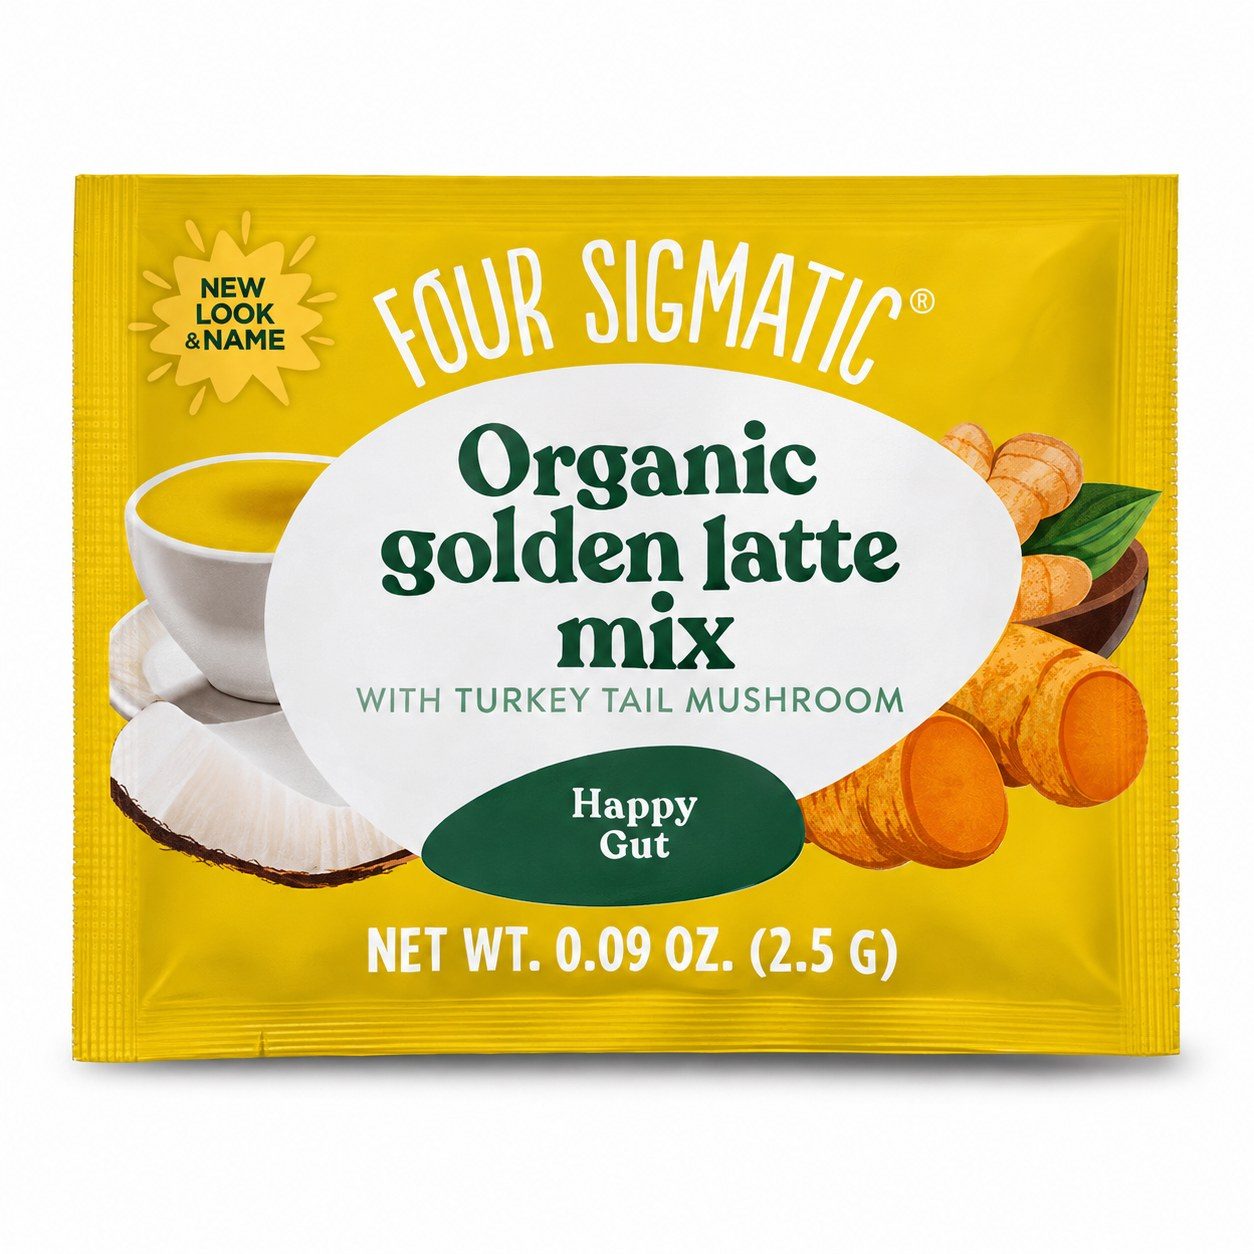
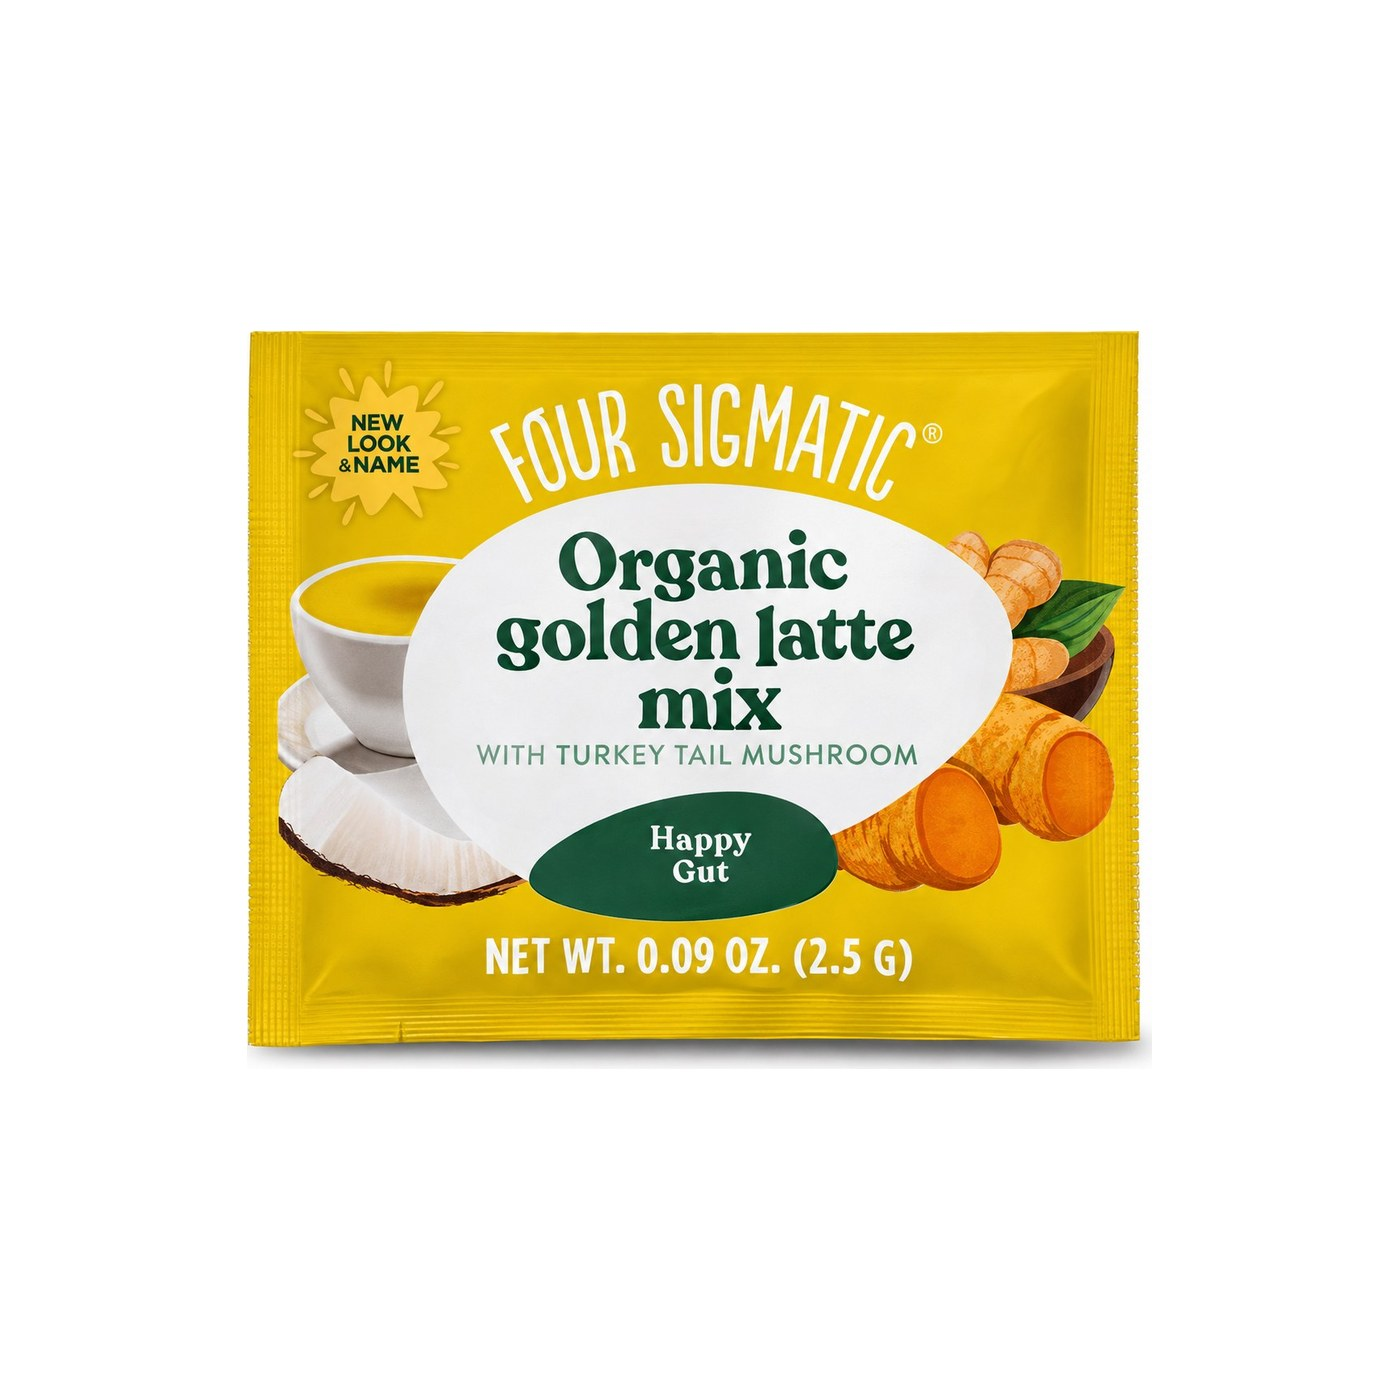
Temporary: descriptions, photo resize
Claude-Session: https://claude.ai/code/session_01FvBwL9nj8VocANxAMeTxse

diff --git a/_transfer/step41_descriptions.js b/_transfer/step41_descriptions.js
@@ -1,0 +1,52 @@
+// Step 4.1 — descriptions for website products that had none (bulk line, kits, a few partner brands) + 2 junk-import fixes. Idempotent (overwrites these only).
+const rpc = async (model, method, args, kwargs) => { const r = await fetch('/web/dataset/call_kw', { method: 'POST', headers: { 'Content-Type': 'application/json' }, body: JSON.stringify({ jsonrpc: '2.0', method: 'call', params: { model, method, args, kwargs: kwargs || {} } }) }); const j = await r.json(); if (j.error) throw new Error(j.error.data && j.error.data.message); return j.result; };
+const D = (d, i) => `<p>${d}</p>` + (i ? `<p><strong>Ingredients:</strong> ${i}</p>` : '');
+const BULK = ' Sold in bulk by the kilogram for kitchens, bakeries and repackers.';
+const BY_CODE = {
+  // Organicopia bulk line (same sourcing as the retail jars)
+  '31201': D('Cold-pressed organic cacao butter from Peru: the pale, aromatic fat of the cacao bean, for chocolate making, baking and body care.' + BULK, 'Organic Cacao Butter (Theobroma cacao).'),
+  '31300': D('Crunchy, semi-bitter raw cacao nibs from organic Ecuadorian Arriba Nacional beans. Lovely in smoothies, oatmeal, baking and bean-to-bar chocolate.' + BULK, '100% Organic Cacao Beans (Arriba Nacional Beans).'),
+  '31000': D('Organic cacao paste (cacao liquor) from Peru: whole fermented cacao beans ground to a smooth 100% cacao mass, the base for chocolate, brownies and hot cocoa.' + BULK, 'Organic Cacao Paste (Theobroma cacao).'),
+  '309': D('Fermented, sun-dried and cold-pressed raw cacao powder, never roasted, with a rich, velvety texture and 20 to 22% fat.' + BULK, 'Organic Raw Cacao Powder (Theobroma cacao).'),
+  '13602': D('True Ceylon cinnamon powder, softer and sweeter than everyday cassia. Third-party lab tested for purity and heavy metals.' + BULK, 'Organic Ceylon Cinnamon Powder (Cinnamomum zeylanicum).'),
+  '427': D('Food-grade activated charcoal powder made from organic coconut shells, made in the USA.' + BULK, 'Organic Coconut Charcoal.'),
+  '13611': D('Finely ground organic garlic with nothing added. An everyday seasoning for vegetables, legumes, meat and marinades.' + BULK, 'Organic Garlic.'),
+  '13600': D('Finely ground organic ginger root from India, with a warm, spicy flavor for teas, baking and curries.' + BULK, 'Organic Ginger Root Powder (Zingiber officinale).'),
+  '13607': D('Fine, cold-processed hemp protein powder with 50% protein, grown in Lithuania. Pressed without hexane or other solvents.' + BULK, 'Organic Hemp Protein (Cannabis sativa).'),
+  '13608': D('A warm, savory-sweet blend of organic Ceylon cinnamon, ginger, nutmeg and cloves. Perfect for pumpkin pie, baking and drinks.' + BULK, 'Organic Ceylon Cinnamon, Organic Ginger, Organic Nutmeg, Organic Cloves.'),
+  '13603': D('Earthy, golden turmeric root powder from India, ground from the whole root. For curries, golden milk and rice.' + BULK, 'Organic Turmeric Root Powder (Curcuma longa).'),
+  '14524': D('Raw hulled sesame seeds from small organic farms, with a rich, nutty flavor. Ideal for tahini, baking and toppings.' + BULK, 'Organic Hulled Sesame Seeds (Sesamum indicum).'),
+  '14503': D('Raw, unhulled black sesame seeds with a bold, nutty aroma. Lovely in baking, desserts and Asian dishes.' + BULK, 'Organic Black Sesame Seeds.'),
+  '13606': D('Wide-cut chips from the white flesh of mature Sri Lankan coconuts, gently dried to stay naturally sweet and chewy.' + BULK, 'Organic Coconut Chips (Cocos nucifera).'),
+  '13606BK': D('Wide-cut Sri Lankan coconut chips, lightly toasted for a crisp, nutty snack. Unsweetened and unsalted.' + BULK, 'Organic Toasted Coconut Chips (Cocos nucifera).'),
+  '92041': D('Sun-dried Turkish apricots, harvested ripe and gently dried. Chewy and naturally sweet, with no added sugar or sulphur.' + BULK, 'Organic Apricots (Prunus armeniaca).'),
+  '92047': D('Spanish paprika smoked over oak wood for a sweet, earthy flavor and deep color. Great with eggs, beans, potatoes and grilled meats.' + BULK, 'Organic Smoked Paprika.'),
+  '14516BK': D('A smoky, savory Cajun blend with a touch of heat. Made for blackened fish and shrimp, grilled chicken, oven fries and corn.' + BULK, 'Organic Paprika, Sea Salt, Organic Onion, Organic Garlic, Organic Oregano, Organic Thyme, Organic Cayenne, Organic Smoked Paprika, Organic Rice Concentrate, Organic Celery Seed.'),
+  '14515BK': D('Ground organic cayenne from India at 50,000 Scoville heat units: a medium-hot cayenne that adds clean heat and color to any dish.' + BULK, 'Organic Cayenne Pepper.'),
+  '92109': D('Dried organic onion granules with a sweet, savory onion flavor that disperses evenly in rubs, soups, sauces and dressings.' + BULK, 'Organic Onion.'),
+  // junk-import fixes
+  '14509': D('Organic yellow popcorn kernels grown in the USA. Pops up big, fluffy and crunchy on the stove or in an air popper.', 'Organic Yellow Popcorn.'),
+  // kits and partner brands
+  '12341': D('A complete gingerbread house kit baked by Organicopia in Lebanon with Certified Organic ingredients: pre-baked walls and roof, icing and candy decorations, with assembly instructions. Large size. Seasonal, limited quantities.'),
+  '12342': D('A complete gingerbread house kit baked by Organicopia in Lebanon with Certified Organic ingredients: pre-baked walls and roof, icing and candy decorations, with assembly instructions. Medium size. Seasonal, limited quantities.'),
+  '428': D('Hand-harvested Celtic sea salt from the Atlantic coast of France, naturally moist and grey from the clay salt beds, unrefined and rich in trace minerals.', 'Sea Salt.'),
+  '187': D('YumEarth organic lollipops in a 250-count bulk bag: real fruit flavors, organic sweeteners, free from the top allergens and artificial dyes. Vitamin C and Assorted Fruit varieties.'),
+  '191': D('Soft, chewy organic black licorice with a classic anise flavor. Gluten-free, vegan and made without artificial dyes.'),
+  '192': D('Soft, chewy organic strawberry licorice. Gluten-free, vegan and made without artificial dyes.'),
+  '92132': D('YumEarth Choco Yums: creamy organic chocolate candies with a crunchy candy shell, colored with fruit and vegetable juices. Free from the top allergens and artificial dyes.'),
+  '43701': D('Four Sigmatic organic instant coffee in single-serve 2.5 g sachets, blended with functional mushrooms. Balance (with ashwagandha and chaga), Protect (with chaga and turkey tail) and the caffeine-free Golden Latte mix (turmeric and turkey tail). Sold in packs of 10 sachets.'),
+};
+const BY_NAME = {
+  'Organicopia Organic Coconut Activated Charcoal Powder - 35g': D('Food-grade activated charcoal powder made from organic coconut shells, made in the USA.', 'Organic Coconut Charcoal.'),
+};
+const log = { set: [], missing: [] };
+for (const [code, html] of Object.entries(BY_CODE)) {
+  const v = await rpc('product.product', 'search_read', [[['default_code', '=', code]]], { fields: ['product_tmpl_id'] });
+  if (!v.length) { log.missing.push(code); continue; }
+  await rpc('product.template', 'write', [[v[0].product_tmpl_id[0]], { description_ecommerce: html }]); log.set.push(code);
+}
+for (const [name, html] of Object.entries(BY_NAME)) {
+  const t = await rpc('product.template', 'search_read', [[['name', '=', name]]], { fields: ['id'] });
+  if (t.length) { await rpc('product.template', 'write', [[t[0].id], { description_ecommerce: html }]); log.set.push(name); } else log.missing.push(name);
+}
+window.__step41 = log;

diff --git a/_transfer/step42_photo_resize.js b/_transfer/step42_photo_resize.js
@@ -1,0 +1,6 @@
+// Step 4.2 — Golden Latte sachet photo rescaled to match the coffee sachets. Expects window.__SMB_BASE.
+const rpc = async (model, method, args, kwargs) => { const r = await fetch('/web/dataset/call_kw', { method: 'POST', headers: { 'Content-Type': 'application/json' }, body: JSON.stringify({ jsonrpc: '2.0', method: 'call', params: { model, method, args, kwargs: kwargs || {} } }) }); const j = await r.json(); if (j.error) throw new Error(j.error.data && j.error.data.message); return j.result; };
+const b64 = async (url) => { const r = await fetch(url); const buf = new Uint8Array(await r.arrayBuffer()); let s = ''; for (let i = 0; i < buf.length; i += 0x8000) s += String.fromCharCode.apply(null, buf.subarray(i, i + 0x8000)); return btoa(s); };
+const v = await rpc('product.product', 'search_read', [[['default_code', '=', '92121']]], { fields: ['id'] });
+await rpc('product.product', 'write', [[v[0].id], { image_variant_1920: await b64(window.__SMB_BASE + 'img2/92121_01.jpg') }]);
+window.__step42 = 'golden latte photo updated';
